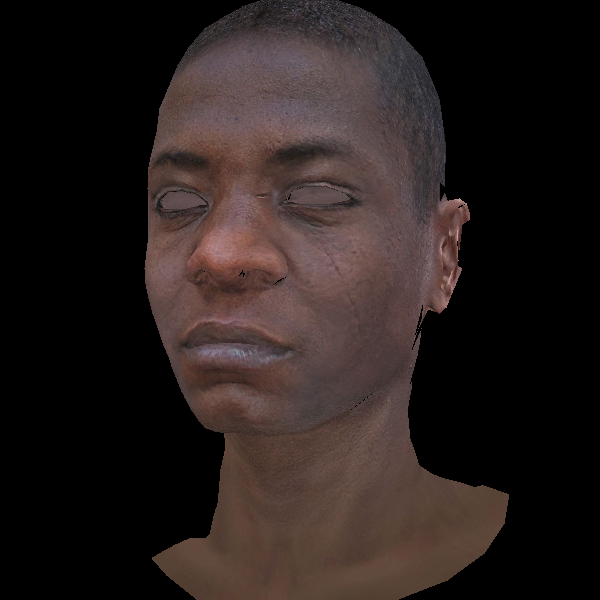
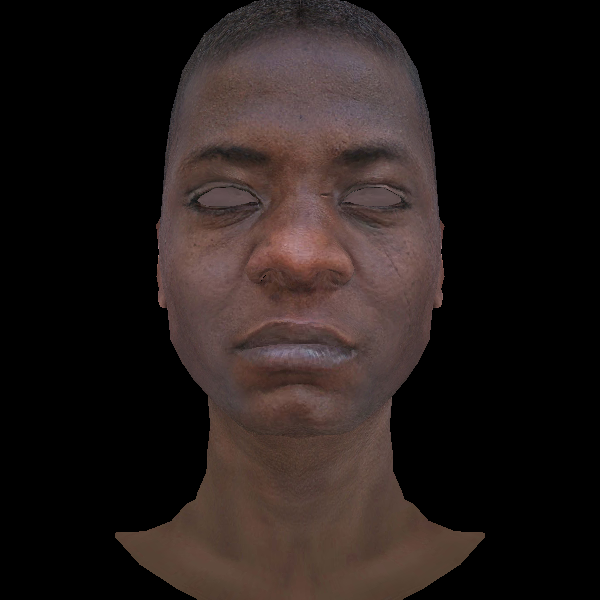
fix bug my_lesson5

diff --git a/main.cpp b/main.cpp
@@ -21,18 +21,17 @@ Matrix LookAt(Vec3f eye, Vec3f center, Vec3f up)
     Vec3f x = (up ^ z).normalize();
     Vec3f y = (z ^ x).normalize();
 
-    Matrix rotation = Matrix::identity(4);
-    Matrix translation = Matrix::identity(4);
+    Matrix view = Matrix::identity(4);
 
     for (int i = 0; i < 3; i++)
     {
-        rotation[0][i] = x[i];
-        rotation[1][i] = y[i];
-        rotation[2][i] = z[i];
-        translation[i][3] = -center[i];
+        view[0][i] = x[i];
+        view[1][i] = y[i];
+        view[2][i] = z[i];
+        view[i][3] = -center[i];
     }
 
-    return rotation * translation;
+    return view;
 }
 
 // [-1, 1] -> [0, width] or [0, height]
@@ -55,7 +54,7 @@ Vec3f barycentric(Vec3f v_pts[3], Vec3f p)
     return Vec3f(1.f - (u.x + u.y) / u.z, u.y / u.z, u.x / u.z);
 }
 
-void triangle(Vec3f v_pts[3], Vec2f uv[3], TGAImage &image, Model &model)
+void triangle(Vec3f v_pts[3], Vec2f uv[3], float ity[3], TGAImage &image, Model &model)
 {
     word2screen(v_pts);
     Vec2f bboxmin(std::numeric_limits<float>::max(), std::numeric_limits<float>::max());
@@ -85,6 +84,7 @@ void triangle(Vec3f v_pts[3], Vec2f uv[3], TGAImage &image, Model &model)
             {
                 zbuffer[idx] = interpolated_z;
                 TGAColor color = model.diffuse(interpolated_uv);
+
                 image.set(P.x, P.y, color);
             }
         }
@@ -99,8 +99,8 @@ int main(int argc, char **argv)
 
     Model model("obj/african_head.obj");
 
-    Vec3f light_dir = Vec3f(0, 0, -1).normalize();
-    Vec3f eye(1, 0, 3);
+    Vec3f light_dir = Vec3f(0, -0.1, -1).normalize();
+    Vec3f eye(0, 0, 3);
     Vec3f center(0, 0, 0);
     Vec3f up(0, 1, 0);
 
@@ -116,22 +116,17 @@ int main(int argc, char **argv)
         Vec3f v_pts[3];
         Vec3f v_pts_perspective[3];
         Vec2f v_uv[3];
-        Vec3f v_norm[3];
+        float v_ity[3];
         for (int j = 0; j < 3; j++)
         {
             v_pts[j] = model.vert(face[j]);
             v_pts_perspective[j] = m2v(Project * View * Model * v2m(v_pts[j]));
             v_uv[j] = model.uv(i, j);
-            v_norm[j] = model.norm(i, j);
+            v_ity[j] = model.norm(i, j) * light_dir;
         }
-        // Vec3f n = (v_norm[0] + v_norm[1] + v_norm[2]).normalize();
-        Vec3f n = (v_pts[2] - v_pts[0]) ^ (v_pts[1] - v_pts[0]);
-        n.normalize();
-        float intensity = n * light_dir;
-        if (intensity > 0.0)
-        {
-            triangle(v_pts_perspective, v_uv, image, model);
-        }
+        Vec3f n = ((v_pts[2] - v_pts[0]) ^ (v_pts[1] - v_pts[0])).normalize();
+        if (n * light_dir > 0)
+            triangle(v_pts_perspective, v_uv, v_ity, image, model);
     }
 
     image.flip_vertically();
